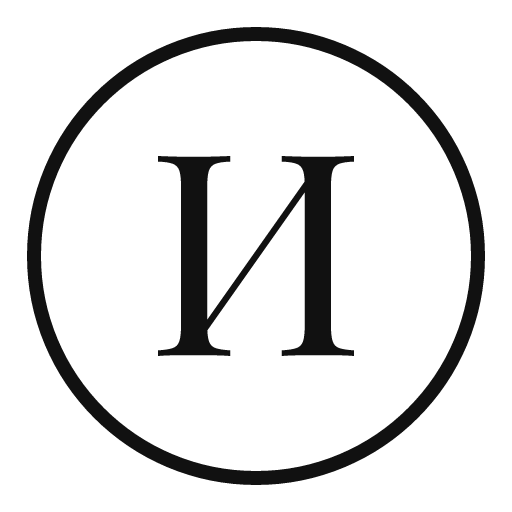
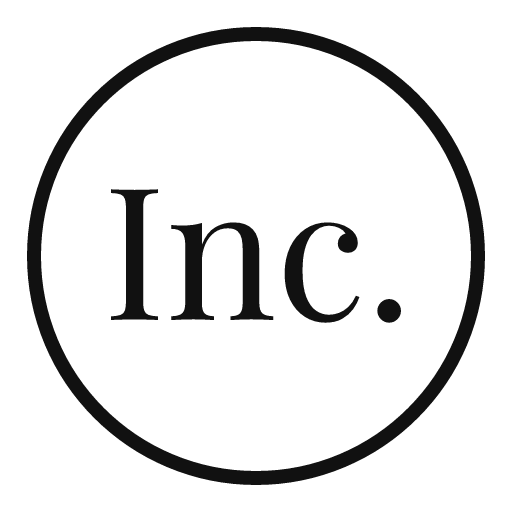
Иконка «Inc.» в кольце

diff --git a/HANDOFF.md b/HANDOFF.md
@@ -143,5 +143,5 @@ innfact.ru, www и fin-check.shop — постоянный редирект на
 
 ## 12. Название «ИННсайдер», адрес inn-saider.ru (27.09.2026)
 Вместо «СверкаИНН» выбрали «ИННсайдер» (inn-saider.ru). sverkainn.ru (уже куплен) — редирект, как innfact.ru и fin-check.shop.
-Иконка — «И» в кольце (`Claude outputs/logo-innsaider/icon.js`). Функция индекса — `innIndex`.
+Иконка — «Inc.» в кольце (`Claude outputs/logo-innsaider/icon.js`). Функция индекса — `innIndex`.
 Важно для текстов: «инсайдер» — только образ; сайт работает исключительно с открытыми данными, никакой «закрытой»/инсайдерской информации не обещаем (224-ФЗ, ст. 185.6 УК).
